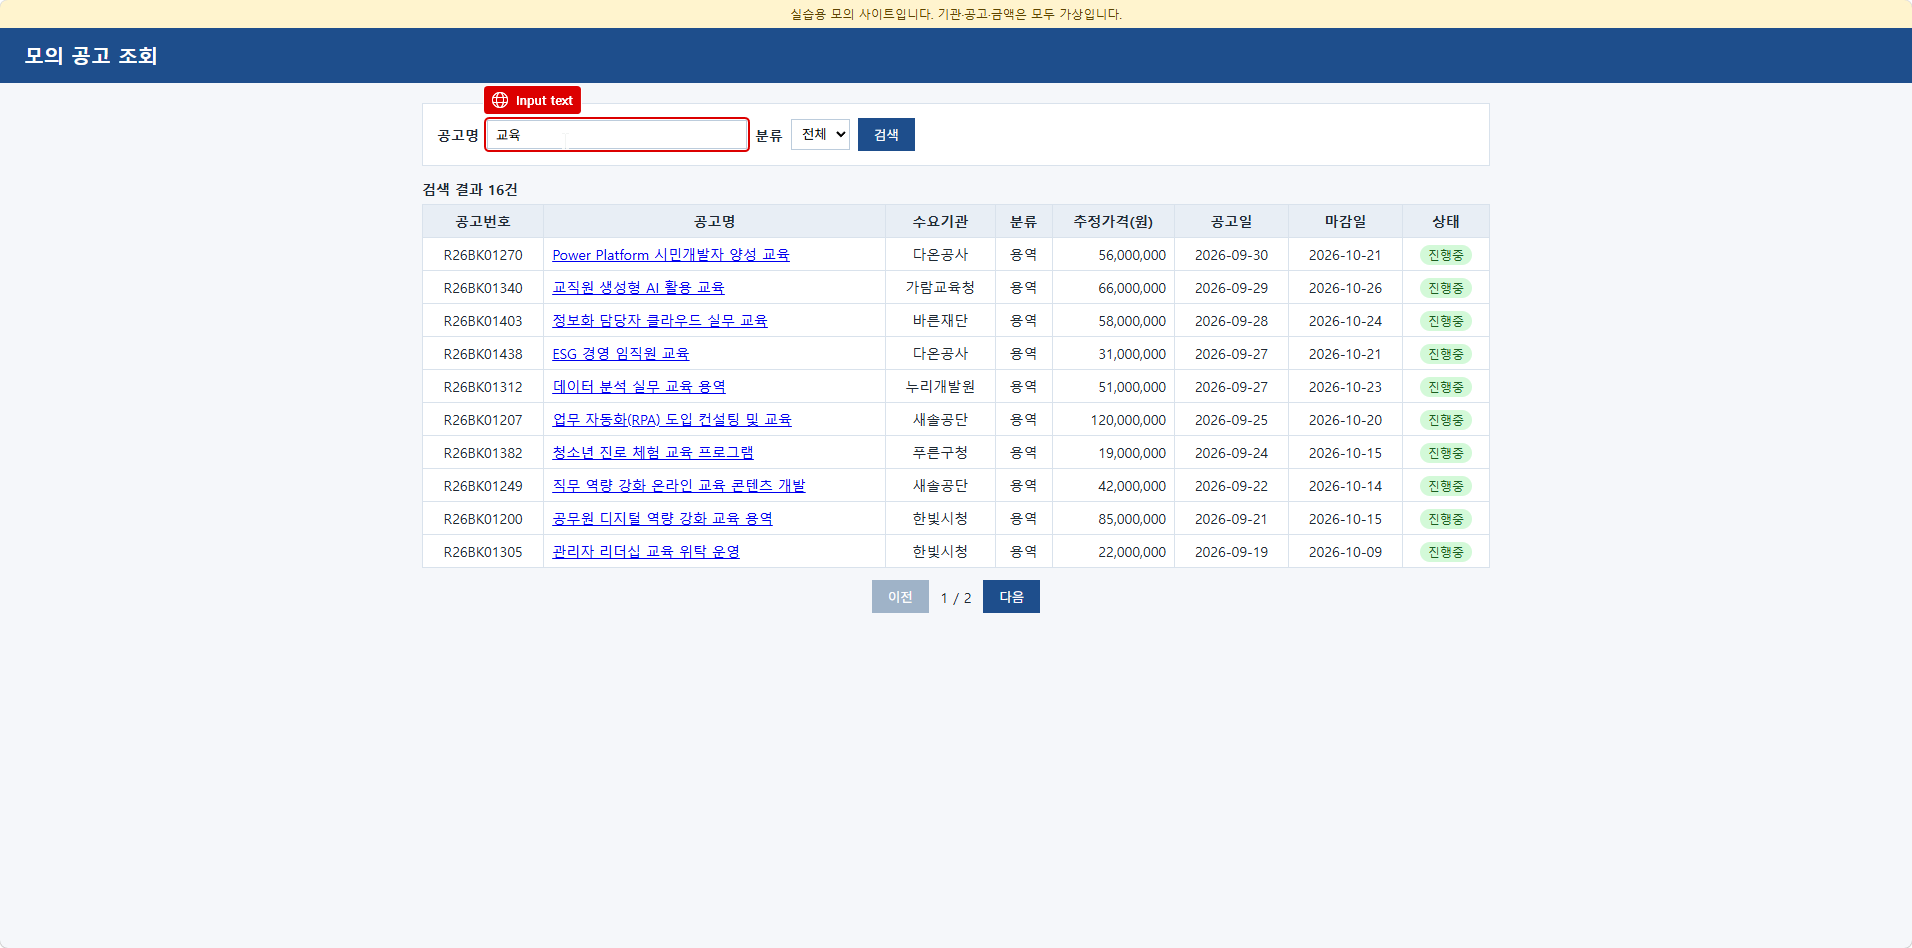
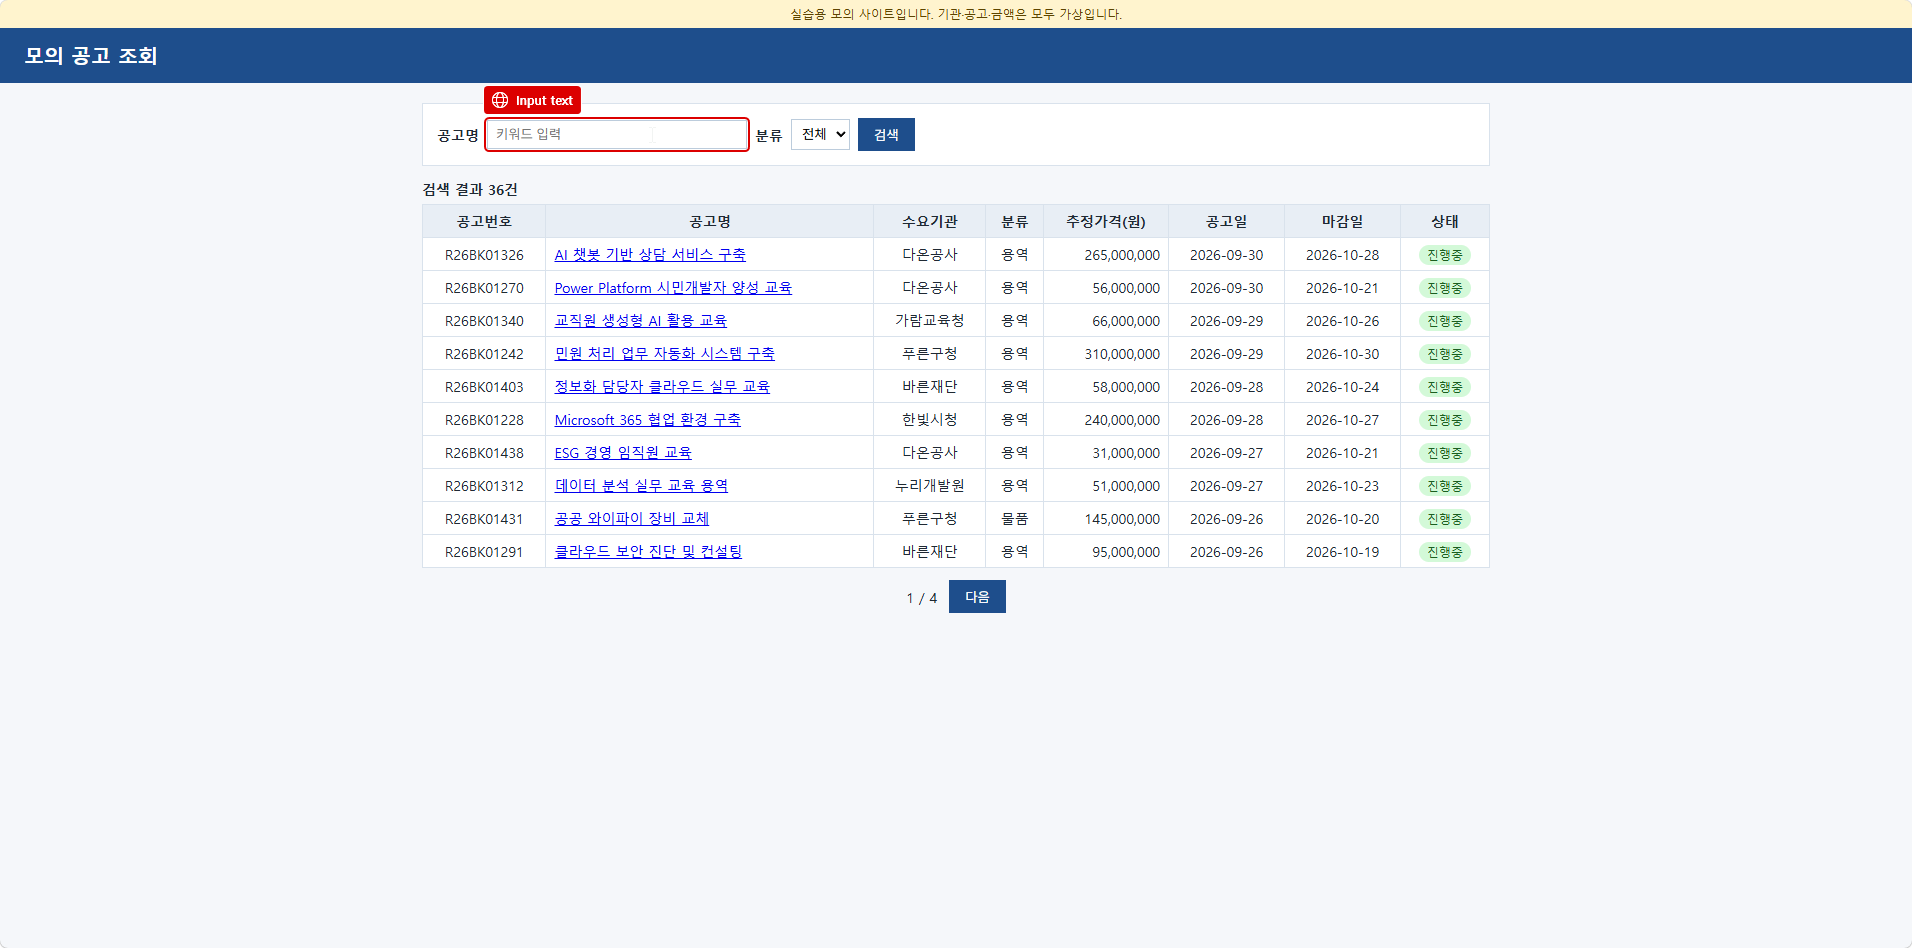
Lab 5 사이트 컷 재촬영 반영 — 첫 쪽 이전 · 마지막 쪽 다음 없는 화면
01 · 03 · 04 · 05 · 10 · 14 · 17b · 19 · 22 · 24

Changed region(s): [[0.432, 0.2141, 0.7714, 0.673], [0.216, 0.2141, 0.432, 0.6118], [0.2469, 0.1224, 0.2777, 0.153]]

diff --git a/docs/lab5.md b/docs/lab5.md
@@ -47,7 +47,7 @@ nav_order: 6
            4번 본문 · 확인 ⑤ 를 맞추고 4번 컷을 재촬영 대상으로 돌렸다. 1~3 · 5번 화면은 주소 표시만 달라진다
            실사이트에서도 같은 일이 생길 수 있다 — 강의에서 말로 짚을 것(페이지 선택기는 「다음」이 없어지거나 못 찾아야 멈춘다)
          ✔ 고친 사이트(다음 단추를 문서에서 지움 + 주소 이동)에서 재실행하니 2쪽까지 읽고 멈췄다. DataFromWebPage 16개 행, 8 열, 0번 행 R26BK01270(29 · 29c).
-         ✔ 첫 쪽에서는 이전 단추도 문서에서 지운다(제작자 2026-10-05). 사이트가 보이는 컷 01 · 03 · 04 · 05 · 10 · 14 · 17b · 19 · 22 · 24 를 재촬영 대상으로 돌렸다
+         ✔ 첫 쪽에서는 이전 단추도 문서에서 지운다(제작자 2026-10-05). 사이트가 보이는 컷 01 · 03 · 04 · 05 · 10 · 14 · 17b · 19 · 22 · 24 를 재촬영했다(2026-10-05)
          강의에서 말로 짚을 것: 페이지 선택기는 「다음」을 못 찾아야 멈춘다. 숨기기 · 비활성만 하는 실사이트에서는 끝없이 돈다 — 그때는 흐름이 직접 쪽을 넘긴다
        - 페이지 매김이 `btnNext` 의 disabled 에서 멈추는가(설계 §7). 멈추지 않으면 2쪽을 두 번 읽어 22행이 된다
        - 설계 §5 는 라이브 웹 도우미 미리 보기를 16행으로 적었다. 미리 보기가 현재 쪽 10행만 보이면 본문 23번 표현이 맞다. 실측 후 확정
@@ -81,7 +81,7 @@ nav_order: 6
     {{ site.url }}{{ site.baseurl }}/practice/bid/
     ```
 
-    ![촬영: 모의 공고 조회 첫 화면 — 검색 결과 36건, 1 / 4](../assets/lab5/lab5-01.png)
+    ![모의 공고 조회 첫 화면 — 검색 결과 36건, 1 / 4, 이전 없이 다음만](../assets/lab5/lab5-01.png)
 
 2. **공고명** 칸에 `교육` 을 입력하고 **검색**을 누릅니다.
 
@@ -89,15 +89,15 @@ nav_order: 6
 
 3. 표 위에 「검색 결과 16건」, 표 아래에 「1 / 2」가 보이는지 확인합니다. 표의 열은 공고번호·공고명·수요기관·분류·추정가격(원)·공고일·마감일·상태 여덟 개입니다.
 
-    ![촬영: 검색 결과 16건과 쪽 표시 1 / 2](../assets/lab5/lab5-03.png)
+    ![검색 결과 16건과 쪽 표시 1 / 2](../assets/lab5/lab5-03.png)
 
 4. 표 아래 **다음**을 누릅니다. 쪽 표시가 「2 / 2」로 바뀌고 6행이 보입니다. 마지막 쪽이라 **다음** 단추가 사라집니다. 24번에서 PAD 가 쪽을 넘길 때 이 단추가 없어지는 것을 보고 멈춥니다.
 
-    ![촬영: 2 / 2 쪽 6행 — 다음 단추가 사라진 쪽 표시](../assets/lab5/lab5-04.png)
+    ![2 / 2 쪽 6행 — 다음 없이 이전만](../assets/lab5/lab5-04.png)
 
 5. **이전**을 눌러 1쪽으로 돌아갑니다. 첫 쪽에서는 **이전** 단추가 사라집니다. 이 Edge 창은 닫지 않습니다. ③·④에서 화면 요소를 잡을 때 이 창을 씁니다.
 
-    ![촬영: 1 / 2 쪽으로 돌아온 검색 결과](../assets/lab5/lab5-05.png)
+    ![1 / 2 쪽으로 돌아온 검색 결과 — 이전 없이 다음만](../assets/lab5/lab5-05.png)
 
 ## 단계 ② 브라우저 열기
 
@@ -129,7 +129,7 @@ nav_order: 6
 
     **완료 기준**: 1번 줄에 새 Microsoft Edge 시작이 있고, 실행하면 사이트가 최대화된 창으로 열린다.
 
-    ![촬영: 흐름이 연 최대화된 Edge 창의 모의 공고 조회](../assets/lab5/lab5-10.png)
+    ![흐름이 연 최대화된 Edge 창의 모의 공고 조회](../assets/lab5/lab5-10.png)
 {: start="6" }
 
 ## 단계 ③ 입력과 검색
@@ -155,7 +155,7 @@ nav_order: 6
     {: .warning }
     **「공고명」 글자가 아니라 그 오른쪽 입력칸을 잡습니다.** 글자(label)를 잡으면 실행할 때 입력칸에 아무것도 들어가지 않습니다.
 
-    ![촬영: 공고명 입력칸의 빨간 테두리와 Input text 표시](../assets/lab5/lab5-14.png)
+    ![공고명 입력칸의 빨간 테두리와 Input text 표시](../assets/lab5/lab5-14.png)
 
     대화 상자로 돌아오면 **UI 요소** 칸에 `로컬 컴퓨터 > Web Page ... >` 로 시작하는 경로가 들어 있습니다. 칸 오른쪽 연필 아이콘을 눌러 선택기를 엽니다.
 
@@ -210,7 +210,7 @@ nav_order: 6
 
     14번과 같이 5번의 Edge 창에서 **검색** 단추에 빨간 테두리와 `Button` 표시가 뜬 상태로 **Ctrl + 왼쪽 클릭**합니다.
 
-    ![촬영: 검색 단추의 빨간 테두리와 Button 표시](../assets/lab5/lab5-17b.png)
+    ![검색 단추의 빨간 테두리와 Button 표시](../assets/lab5/lab5-17b.png)
 
     대화 상자로 돌아오면 **UI 요소** 칸 오른쪽 연필 아이콘을 눌러 선택기를 엽니다.
 
@@ -238,7 +238,7 @@ nav_order: 6
 
     **완료 기준**: 흐름이 연 창에 「검색 결과 16건」이 보인다.
 
-    ![촬영: 흐름이 검색한 결과 16건 — 노랗게 표시된 검색 단추](../assets/lab5/lab5-19.png)
+    ![흐름이 검색한 결과 16건 — 노랗게 표시된 검색 단추](../assets/lab5/lab5-19.png)
 {: start="11" }
 
 ## 단계 ④ 표 추출
@@ -256,7 +256,7 @@ nav_order: 6
 
 22. 결과 표 안의 칸(예: **공고번호** 머리글)에서 마우스 오른쪽 단추를 누르고 **전체 HTML 테이블 추출**을 고릅니다.
 
-    ![촬영: 표 머리글 오른쪽 클릭 메뉴 — 요소 값 추출 · 전체 HTML 테이블 추출 · 요소를 페이지 선택기로 설정 · 상위 UI 요소 선택](../assets/lab5/lab5-22.png)
+    ![표 머리글 오른쪽 클릭 메뉴 — 요소 값 추출 · 전체 HTML 테이블 추출 · 요소를 페이지 선택기로 설정 · 상위 UI 요소 선택](../assets/lab5/lab5-22.png)
 
 23. 라이브 웹 도우미의 **추출 미리 보기**에 여덟 열짜리 표가 보이는지 확인합니다. 머리글(공고번호 ~ 상태)은 열 이름으로 들어가고 데이터 행에 섞이지 않습니다.
 
@@ -264,7 +264,7 @@ nav_order: 6
 
 24. Edge 창으로 돌아가 표 아래 **다음** 단추에서 마우스 오른쪽 단추를 누르고 **요소를 페이지 선택기로 설정**을 고릅니다. 표에는 초록 점선 테두리가 남아 있습니다.
 
-    ![촬영: 다음 단추 오른쪽 클릭 메뉴의 요소를 페이지 선택기로 설정](../assets/lab5/lab5-24.png)
+    ![다음 단추 오른쪽 클릭 메뉴의 요소를 페이지 선택기로 설정 — 아래 개발자 도구에 PAD 가 붙인 노란 강조 스타일](../assets/lab5/lab5-24.png)
 
 25. 라이브 웹 도우미의 **추출 미리 보기**를 맨 아래로 내립니다. 1쪽 행 아래에 「다음 페이지의 상응하는 값...」이 흐리게 보입니다. 다음 쪽도 같은 형식으로 이어 읽는다는 표시입니다. **완료**를 누릅니다.
 
